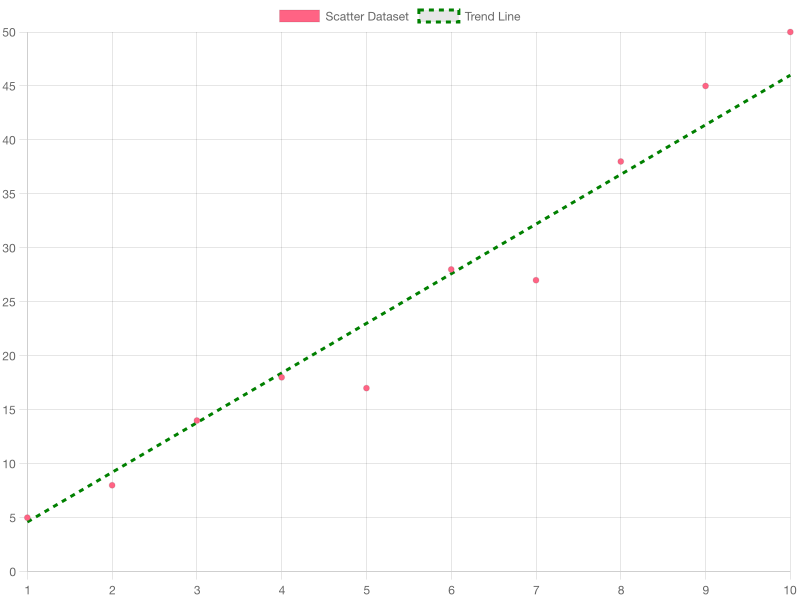
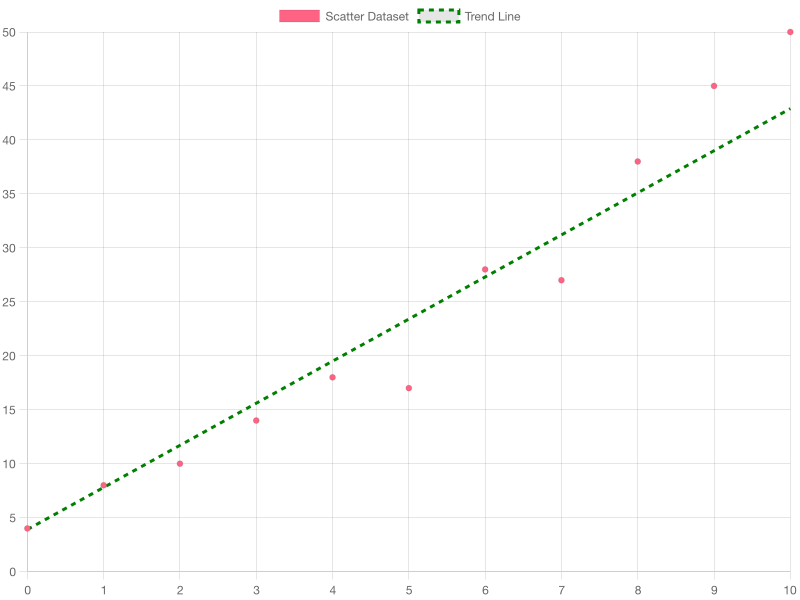
Add bias to linear regression

diff --git a/src/linear-regression-1.ts b/src/linear-regression-1.ts
@@ -2,8 +2,8 @@
 import { showGraph } from "./graph";
 
 // Input data: x represents advertising spend, y represents revenue
-const x = [1, 2, 3, 4, 5, 6, 7, 8, 9, 10]; // Advertising Spend in $1000s
-const y = [5, 8, 14, 18, 17, 28, 27, 38, 45, 50]; // Revenue in $1000s
+const x = [0, 1, 2, 3, 4, 5, 6, 7, 8, 9, 10]; // Advertising Spend in $1000s
+const y = [4, 8, 10, 14, 18, 17, 28, 27, 38, 45, 50]; // Revenue in $1000s
 
 // Learning rate controls how much we adjust the weight in each step
 const learningRate = 0.1;
@@ -11,12 +11,13 @@ const learningRate = 0.1;
 // Function to perform linear regression
 const linearRegression = () => {
   let weight = 0; // Start with an initial weight of 0
+  let bias = 0; // Start with an initial bias of 0
   const maxEpochs = 100; // Maximum number of iterations
-  const targetLoss = 10; // Stop if the loss is below this value
+  const targetLoss = 15; // Stop if the loss is below this value
 
   for (let epoch = 0; epoch < maxEpochs; epoch++) {
     // Predict y values using the current weight
-    const predictions = x.map((value) => value * weight);
+    const predictions = x.map((value) => value * weight + bias);
 
     // Calculate the loss (error) between actual and predicted values
     const error = calculateLoss(y, predictions);
@@ -32,9 +33,10 @@ const linearRegression = () => {
 
     // Update the weight to reduce the error
     weight += learningRate;
+    bias += learningRate;
   }
 
-  return weight;
+  return { weight, bias };
 };
 
 // Function to calculate the loss (mean squared error)
@@ -49,10 +51,10 @@ const calculateLoss = (actual: number[], predicted: number[]) => {
   return totalError / actual.length;
 };
 
-const weight = linearRegression();
+const { weight, bias } = linearRegression();
 
 // Generate the y coordinates for the trend line
-const trendLineData = x.map((value) => value * weight);
+const trendLineData = x.map((value) => value * weight + bias);
 
 // Display the graph with the scatter plot and trend line
 showGraph(x, y, "Linear Regression", trendLineData);
